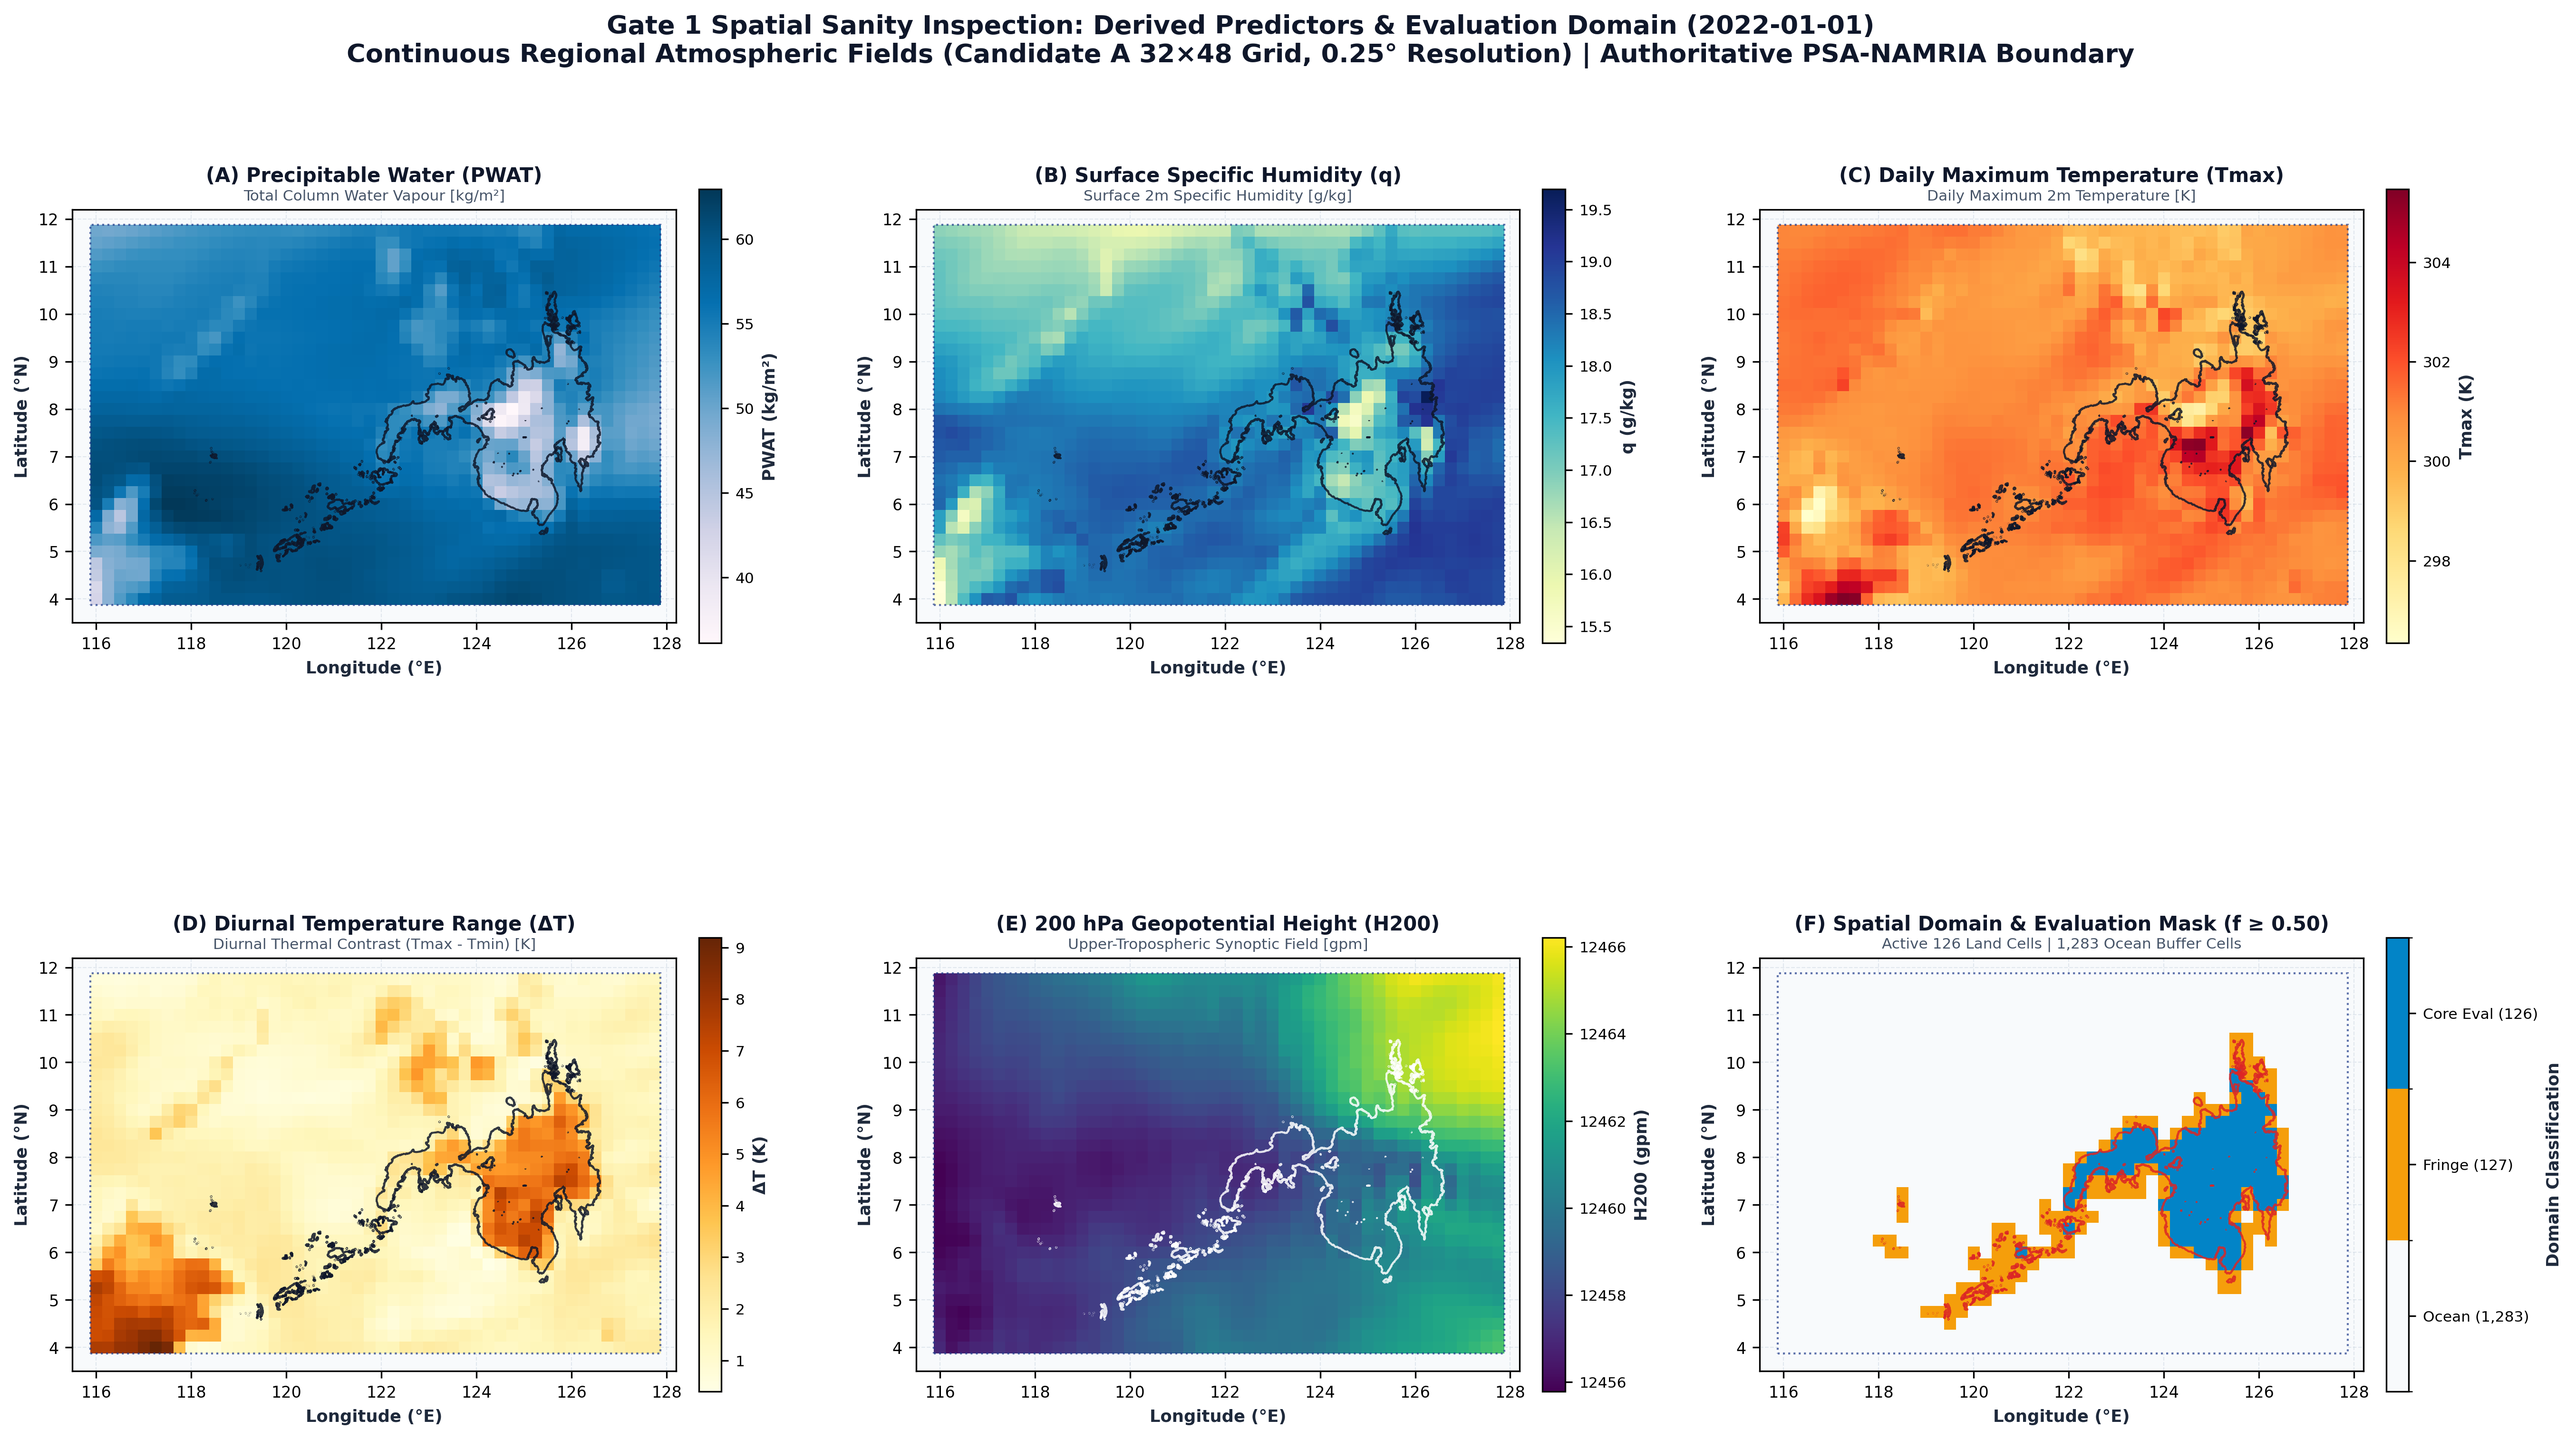
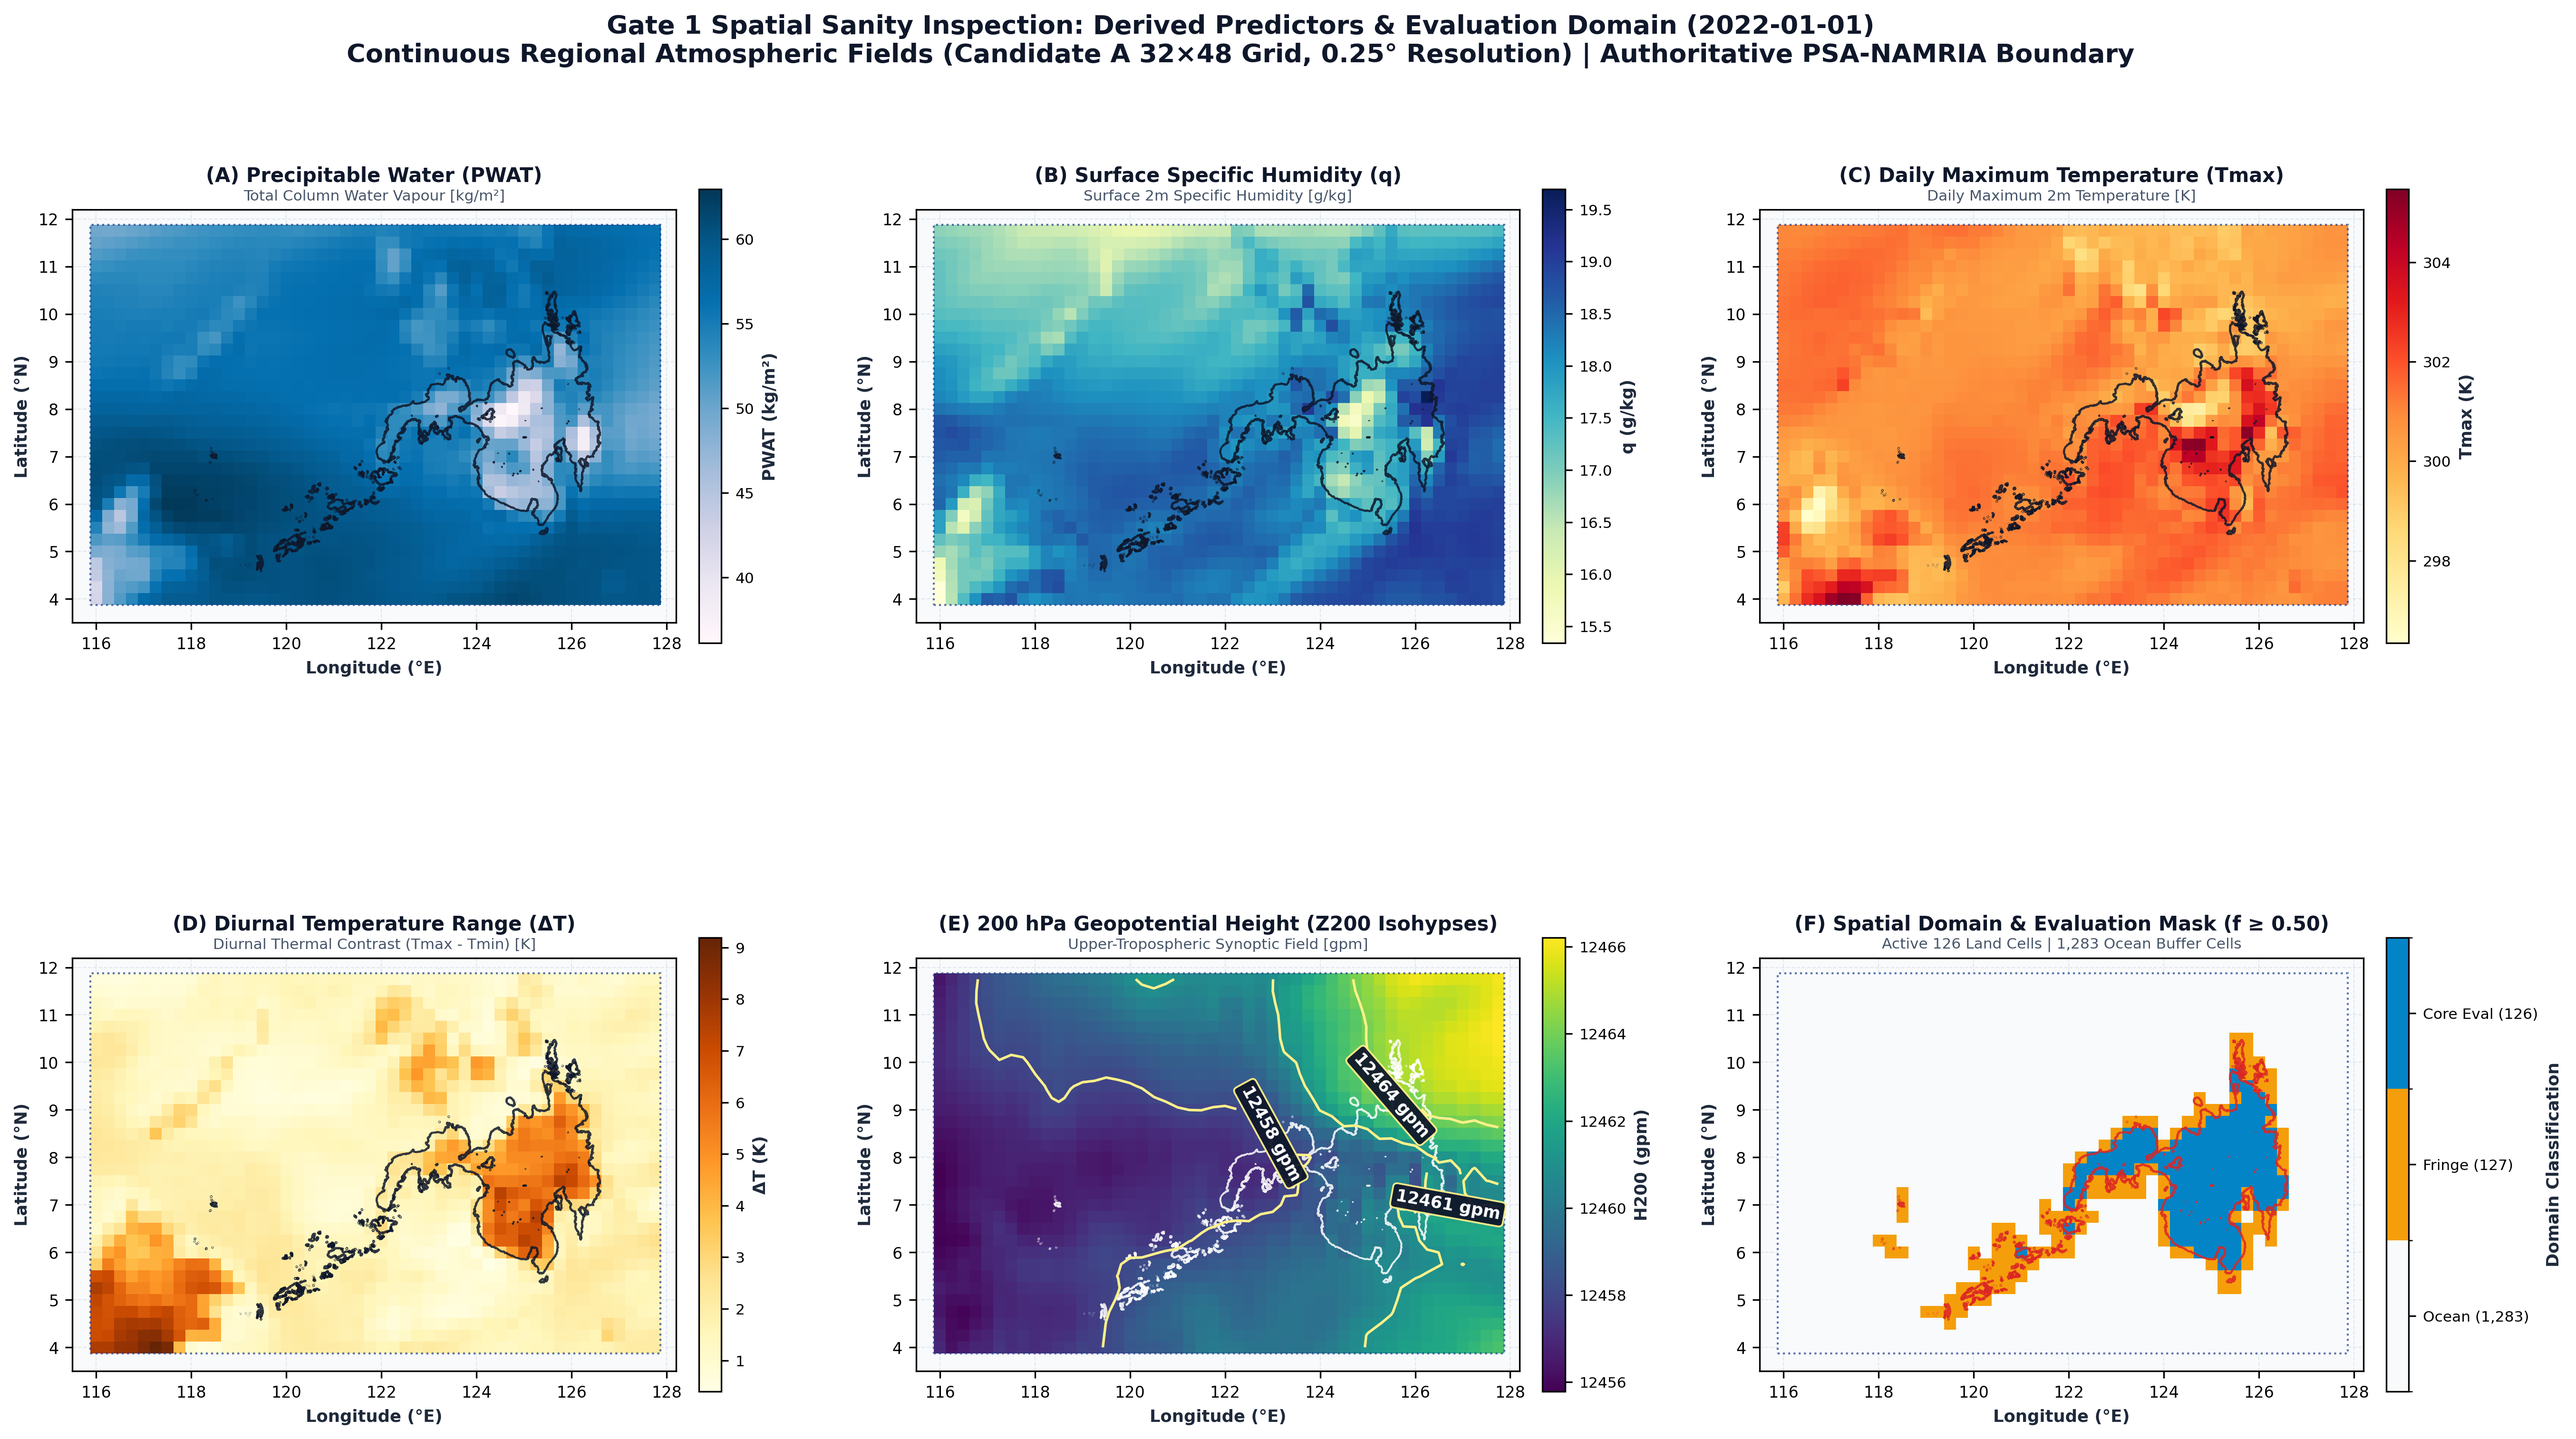
feat(notebooks): restore z200 isohypse contours and sync publication figures

Changed region(s): [[0.4679, 0.714, 0.5927, 0.8692], [0.3743, 0.6209, 0.5927, 0.6519]]

diff --git a/scripts/03_derive_era5_atmospheric_daily.py b/scripts/03_derive_era5_atmospheric_daily.py
@@ -229,7 +229,7 @@ def derive_month(
     if is_pilot:
         fig_dir = Path("figures")
         fig_dir.mkdir(parents=True, exist_ok=True)
-        fig_path = fig_dir / "mindanao_era5_atmospheric_pilot_verification.png"
+        fig_path = fig_dir / "era5_atmospheric_pilot_quickcheck.png"
         fig, axes = plt.subplots(2, 3, figsize=(16, 9), dpi=300)
         fig.suptitle(
             "Sub-Phase 21C Verified Atmospheric Pilot — Monthly Mean Fields (January 2015)\nCandidate A Grid (32×48, 0.25° Resolution) | 126 Mindanao Evaluation Land Cells",
